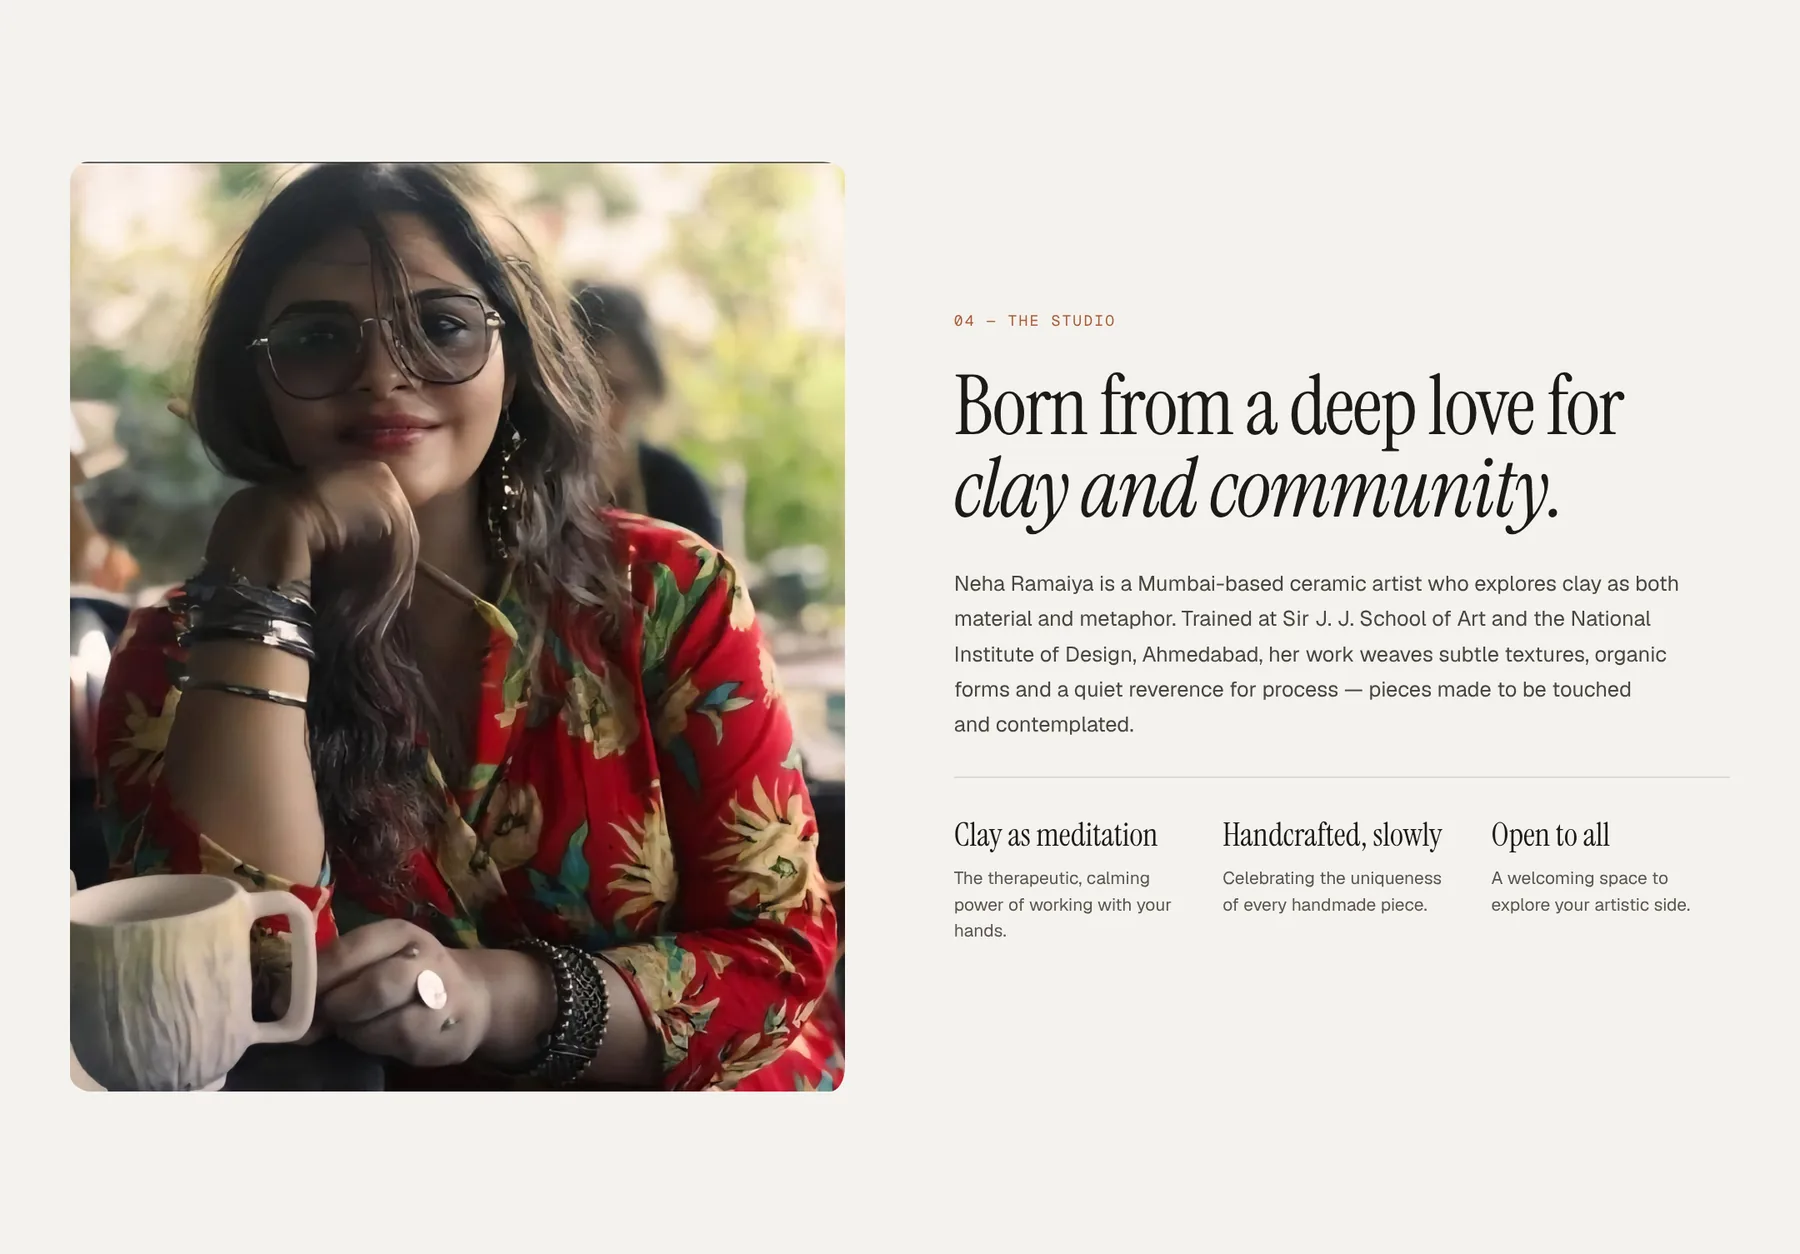
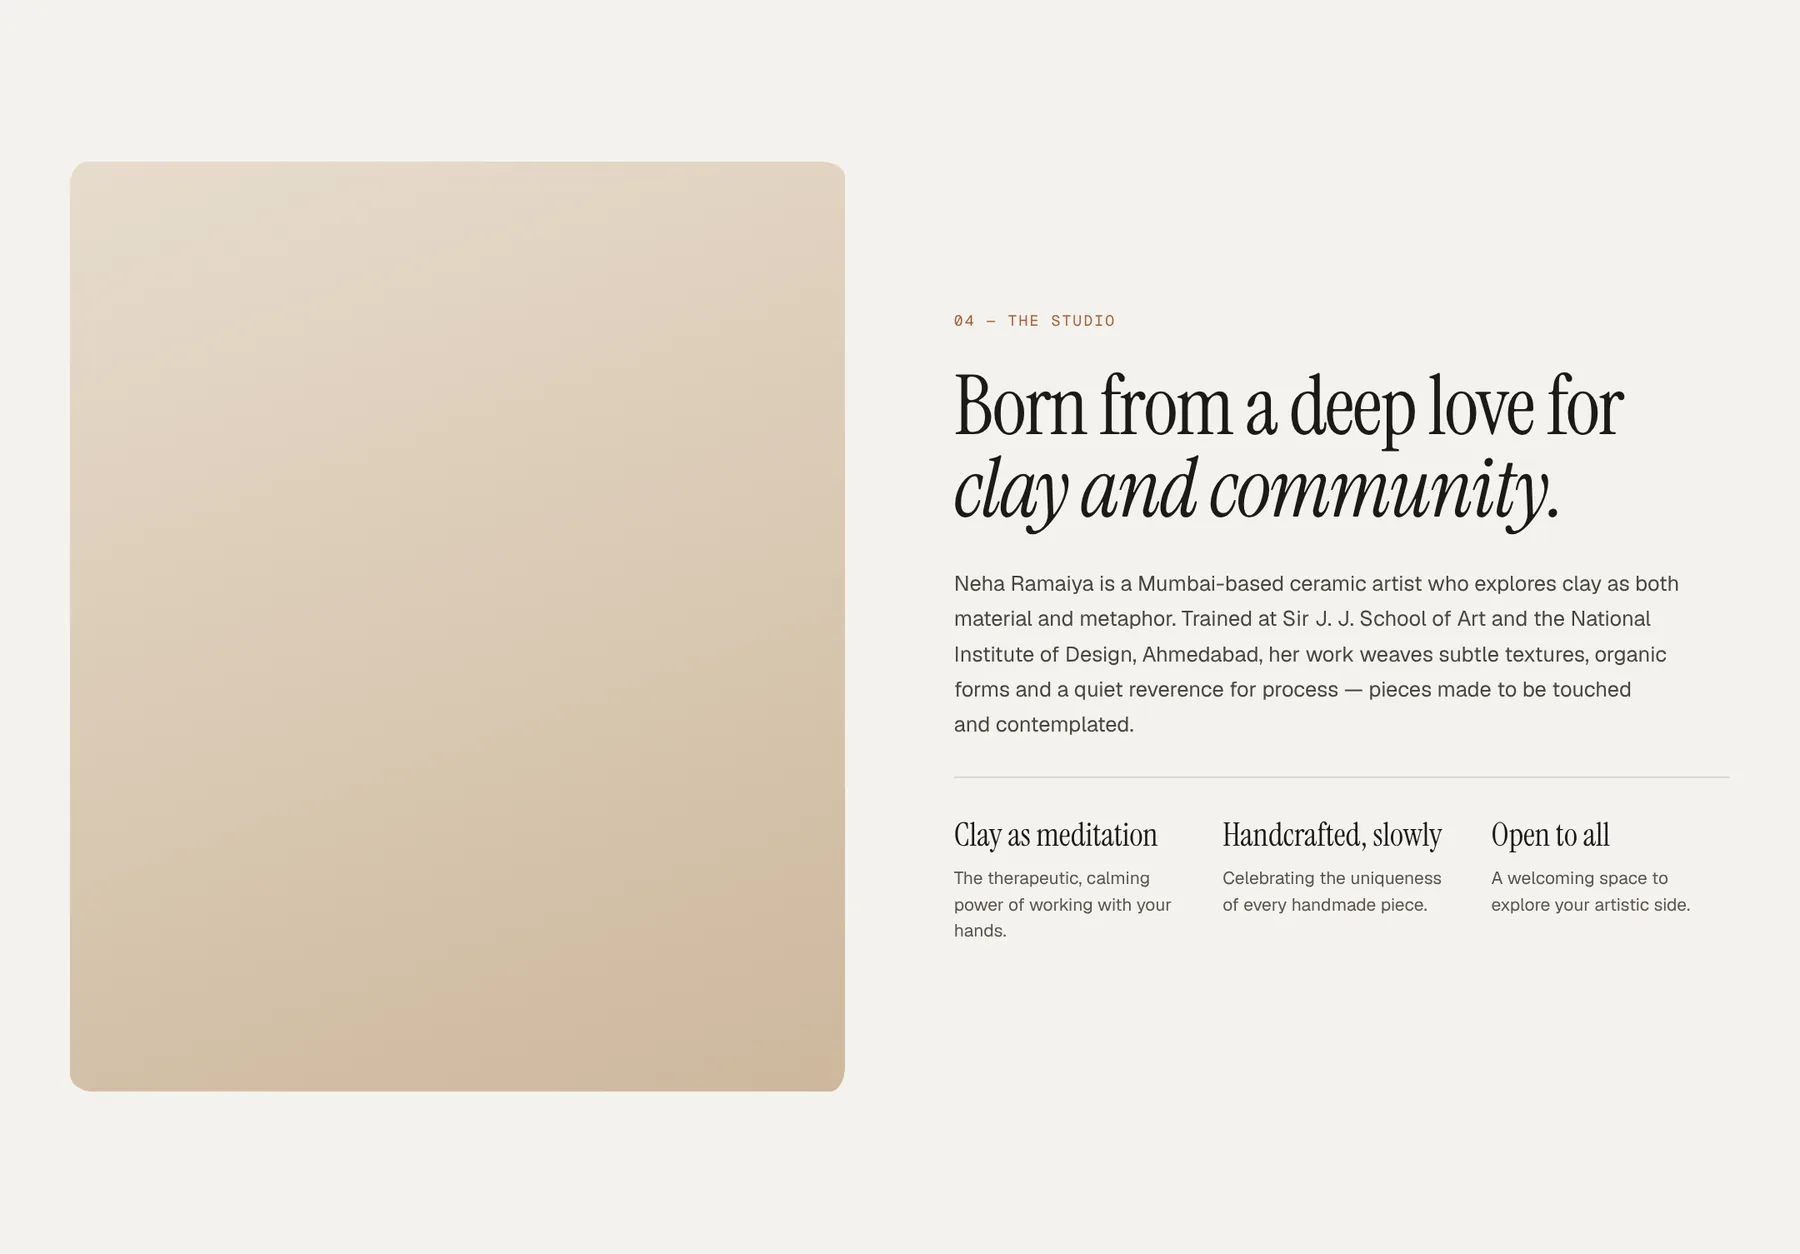
Remove people and studio photos from Yellowspiders case study
Studio and visit sections recaptured with neutral clay panels in place of
the founder's portrait and the studio's pottery photo.

Claude-Session: https://claude.ai/code/session_016SEFkLBRDqAevxt3uzbMTm

Changed region(s): [[0.0311, 0.1244, 0.4667, 0.8708]]

diff --git a/work/yellow-spiders.html b/work/yellow-spiders.html
@@ -86,9 +86,9 @@
     <section class="cs-sec">
       <div class="cs-sec-h"><span class="mono">04</span><h2>The founder as the brand</h2></div>
       <div class="cs-sec-b">
-        <p>Small studios are personal, and Neha is the reason many people come. Founder’s sessions get their own dark section to feel more exclusive, and the studio story sits beside her portrait, with her training and approach to clay in her own terms.</p>
+        <p>Small studios are personal, and Neha is the reason many people come. Founder’s sessions get their own dark section to feel more exclusive, and the studio story gets a section of its own, covering her training and approach to clay in her own terms.</p>
         <figure class="cs-fig" data-cursor="Zoom"><img src="../assets/img/ysp-founder.webp" alt="Founder-led sessions section" loading="lazy" decoding="async" width="1800" height="1287" /></figure>
-        <figure class="cs-fig" data-cursor="Zoom"><img src="../assets/img/ysp-studio.webp" alt="Studio story with the founder" loading="lazy" decoding="async" width="1800" height="1254" /></figure>
+        <figure class="cs-fig" data-cursor="Zoom"><img src="../assets/img/ysp-studio.webp" alt="Studio story section" loading="lazy" decoding="async" width="1800" height="1254" /></figure>
       </div>
     </section>
     <section class="cs-sec">
